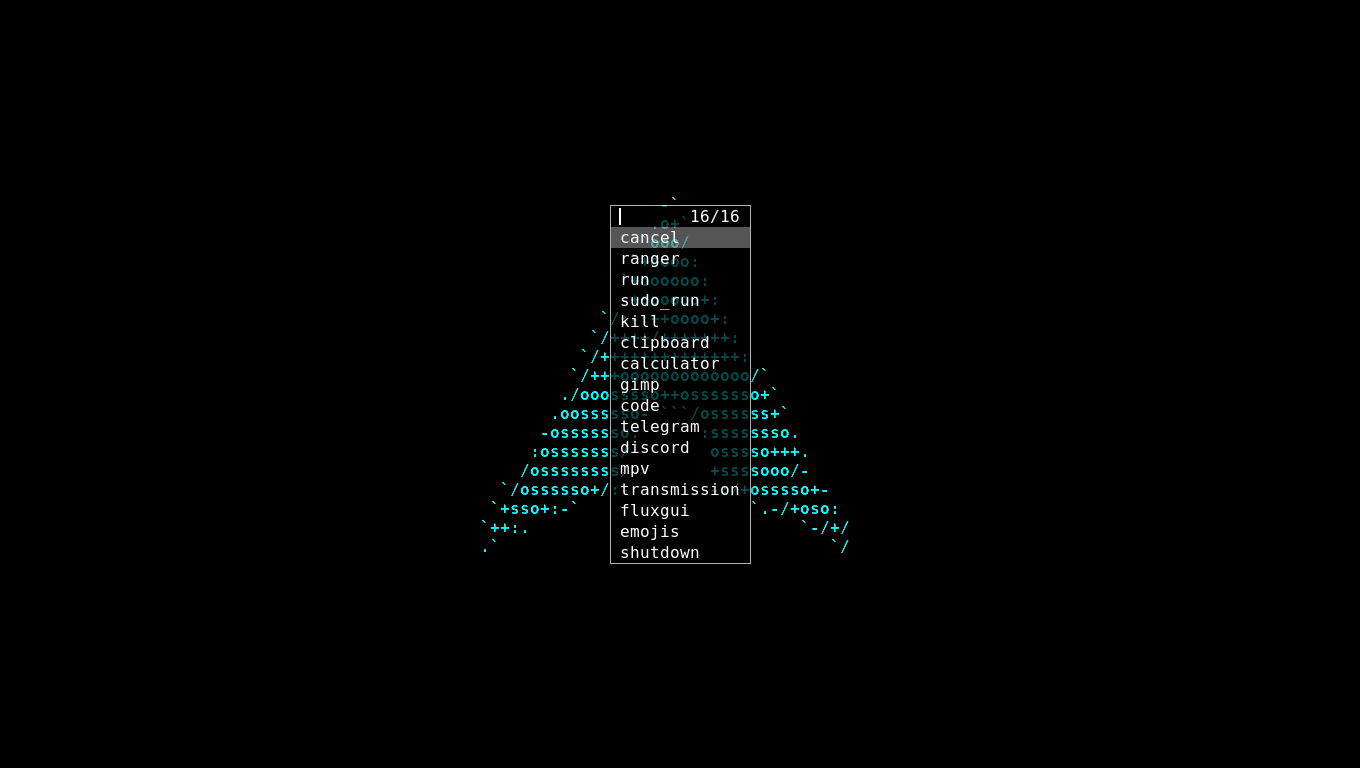
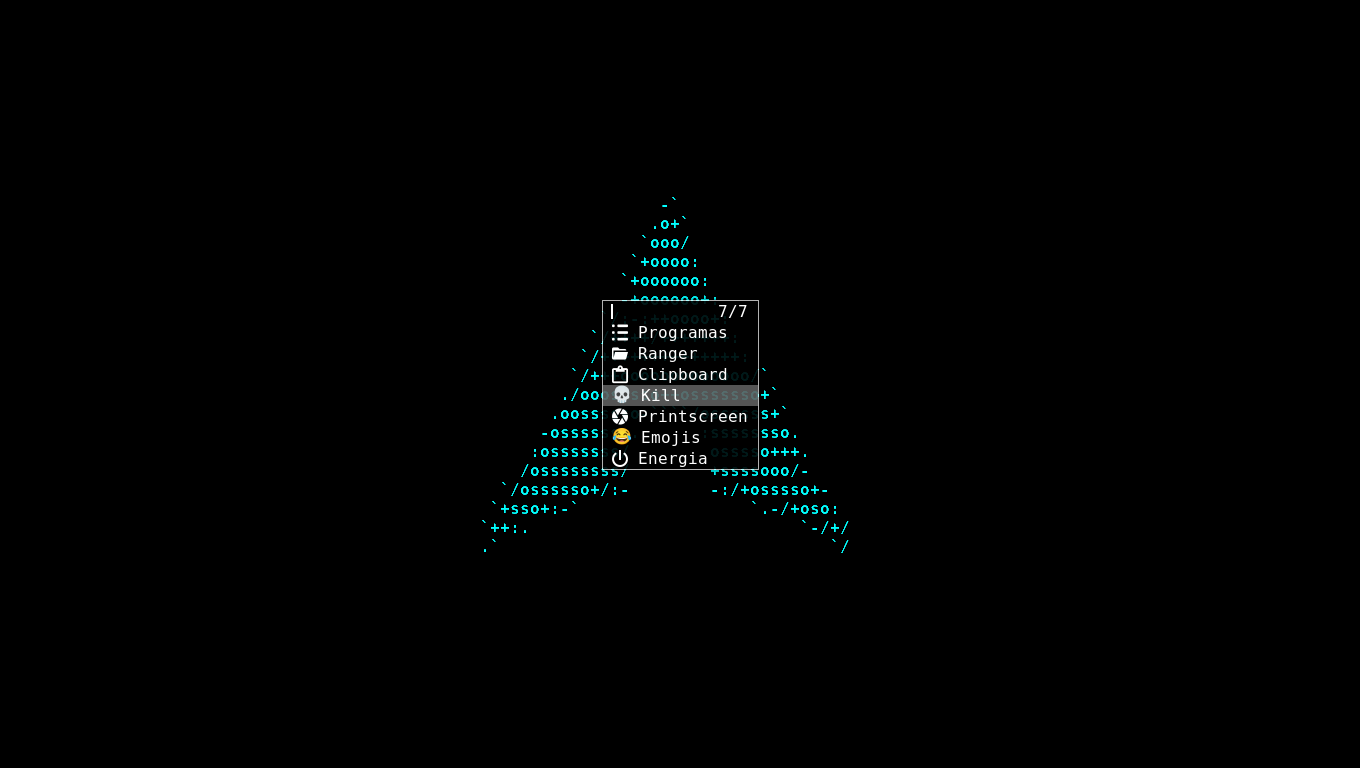
Atualizada screenshot

Changed region(s): [[0.4324, 0.25, 0.5559, 0.75]]

diff --git a/config.def.h b/config.def.h
@@ -2,7 +2,7 @@
 /* Default settings; can be overriden by command line. */
 
 static int topbar = 0;                      /* -b  option; if 0, dmenu appears at bottom     */
-static const unsigned int alpha = 0xb3;
+static const unsigned int alpha = 0xe6;
 static int centered = 0;                    /* -c option; centers dmenu on screen */
 static int min_width = 100;                    /* minimum width when centered */
 static int fuzzy = 1;                      /* -F  option; if 0, dmenu doesn't use fuzzy matching     */
